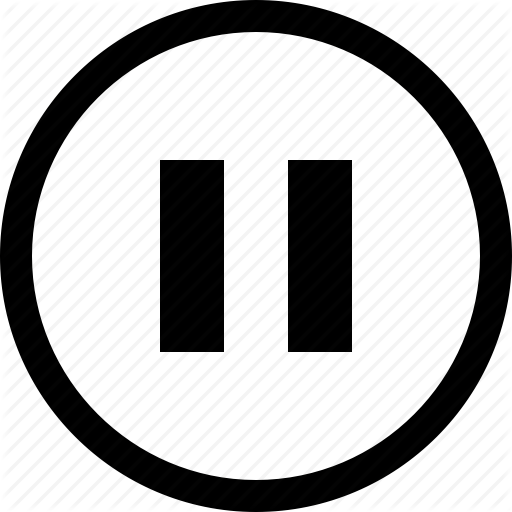
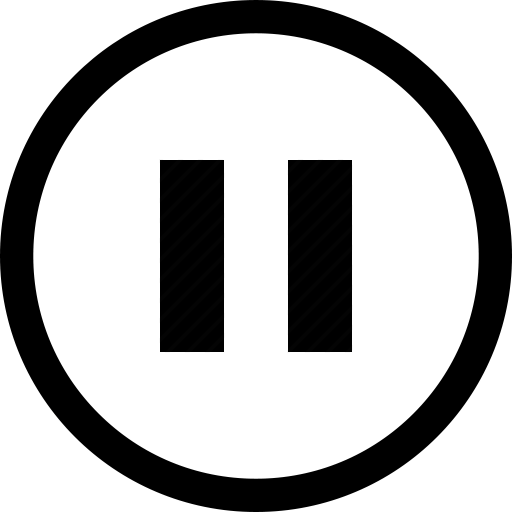
progress on pause button

diff --git a/src/GamePanel.java b/src/GamePanel.java
@@ -43,6 +43,8 @@ public class GamePanel extends JPanel implements ActionListener, KeyListener
         setFocusable(true);
         setFocusTraversalKeysEnabled(false);
 
+        setLayout(null);
+
         // sets up player object
         p = new Patty(50, 350, 50, 50);
         p.drawImg();
@@ -62,10 +64,12 @@ public class GamePanel extends JPanel implements ActionListener, KeyListener
 
         // set up pause button
         pause = new JButton(); //*** change this to pause button
+        pause.setBounds(100, 0, 512, 512);
+//        pause = new JButton("Pause");
+
         pause.setMargin(new Insets(0, 0, 0, 0));
         pause.setBorder(null);
-        pause.setPreferredSize(new Dimension(20,20));
-        add(pause);
+//        pause.setPreferredSize(new Dimension(50,20));
 
         // set up images
         try {
@@ -74,6 +78,8 @@ public class GamePanel extends JPanel implements ActionListener, KeyListener
         } catch (IOException e) {
             e.printStackTrace();
         }
+
+        add(pause);
 
         ready = true;
     }
